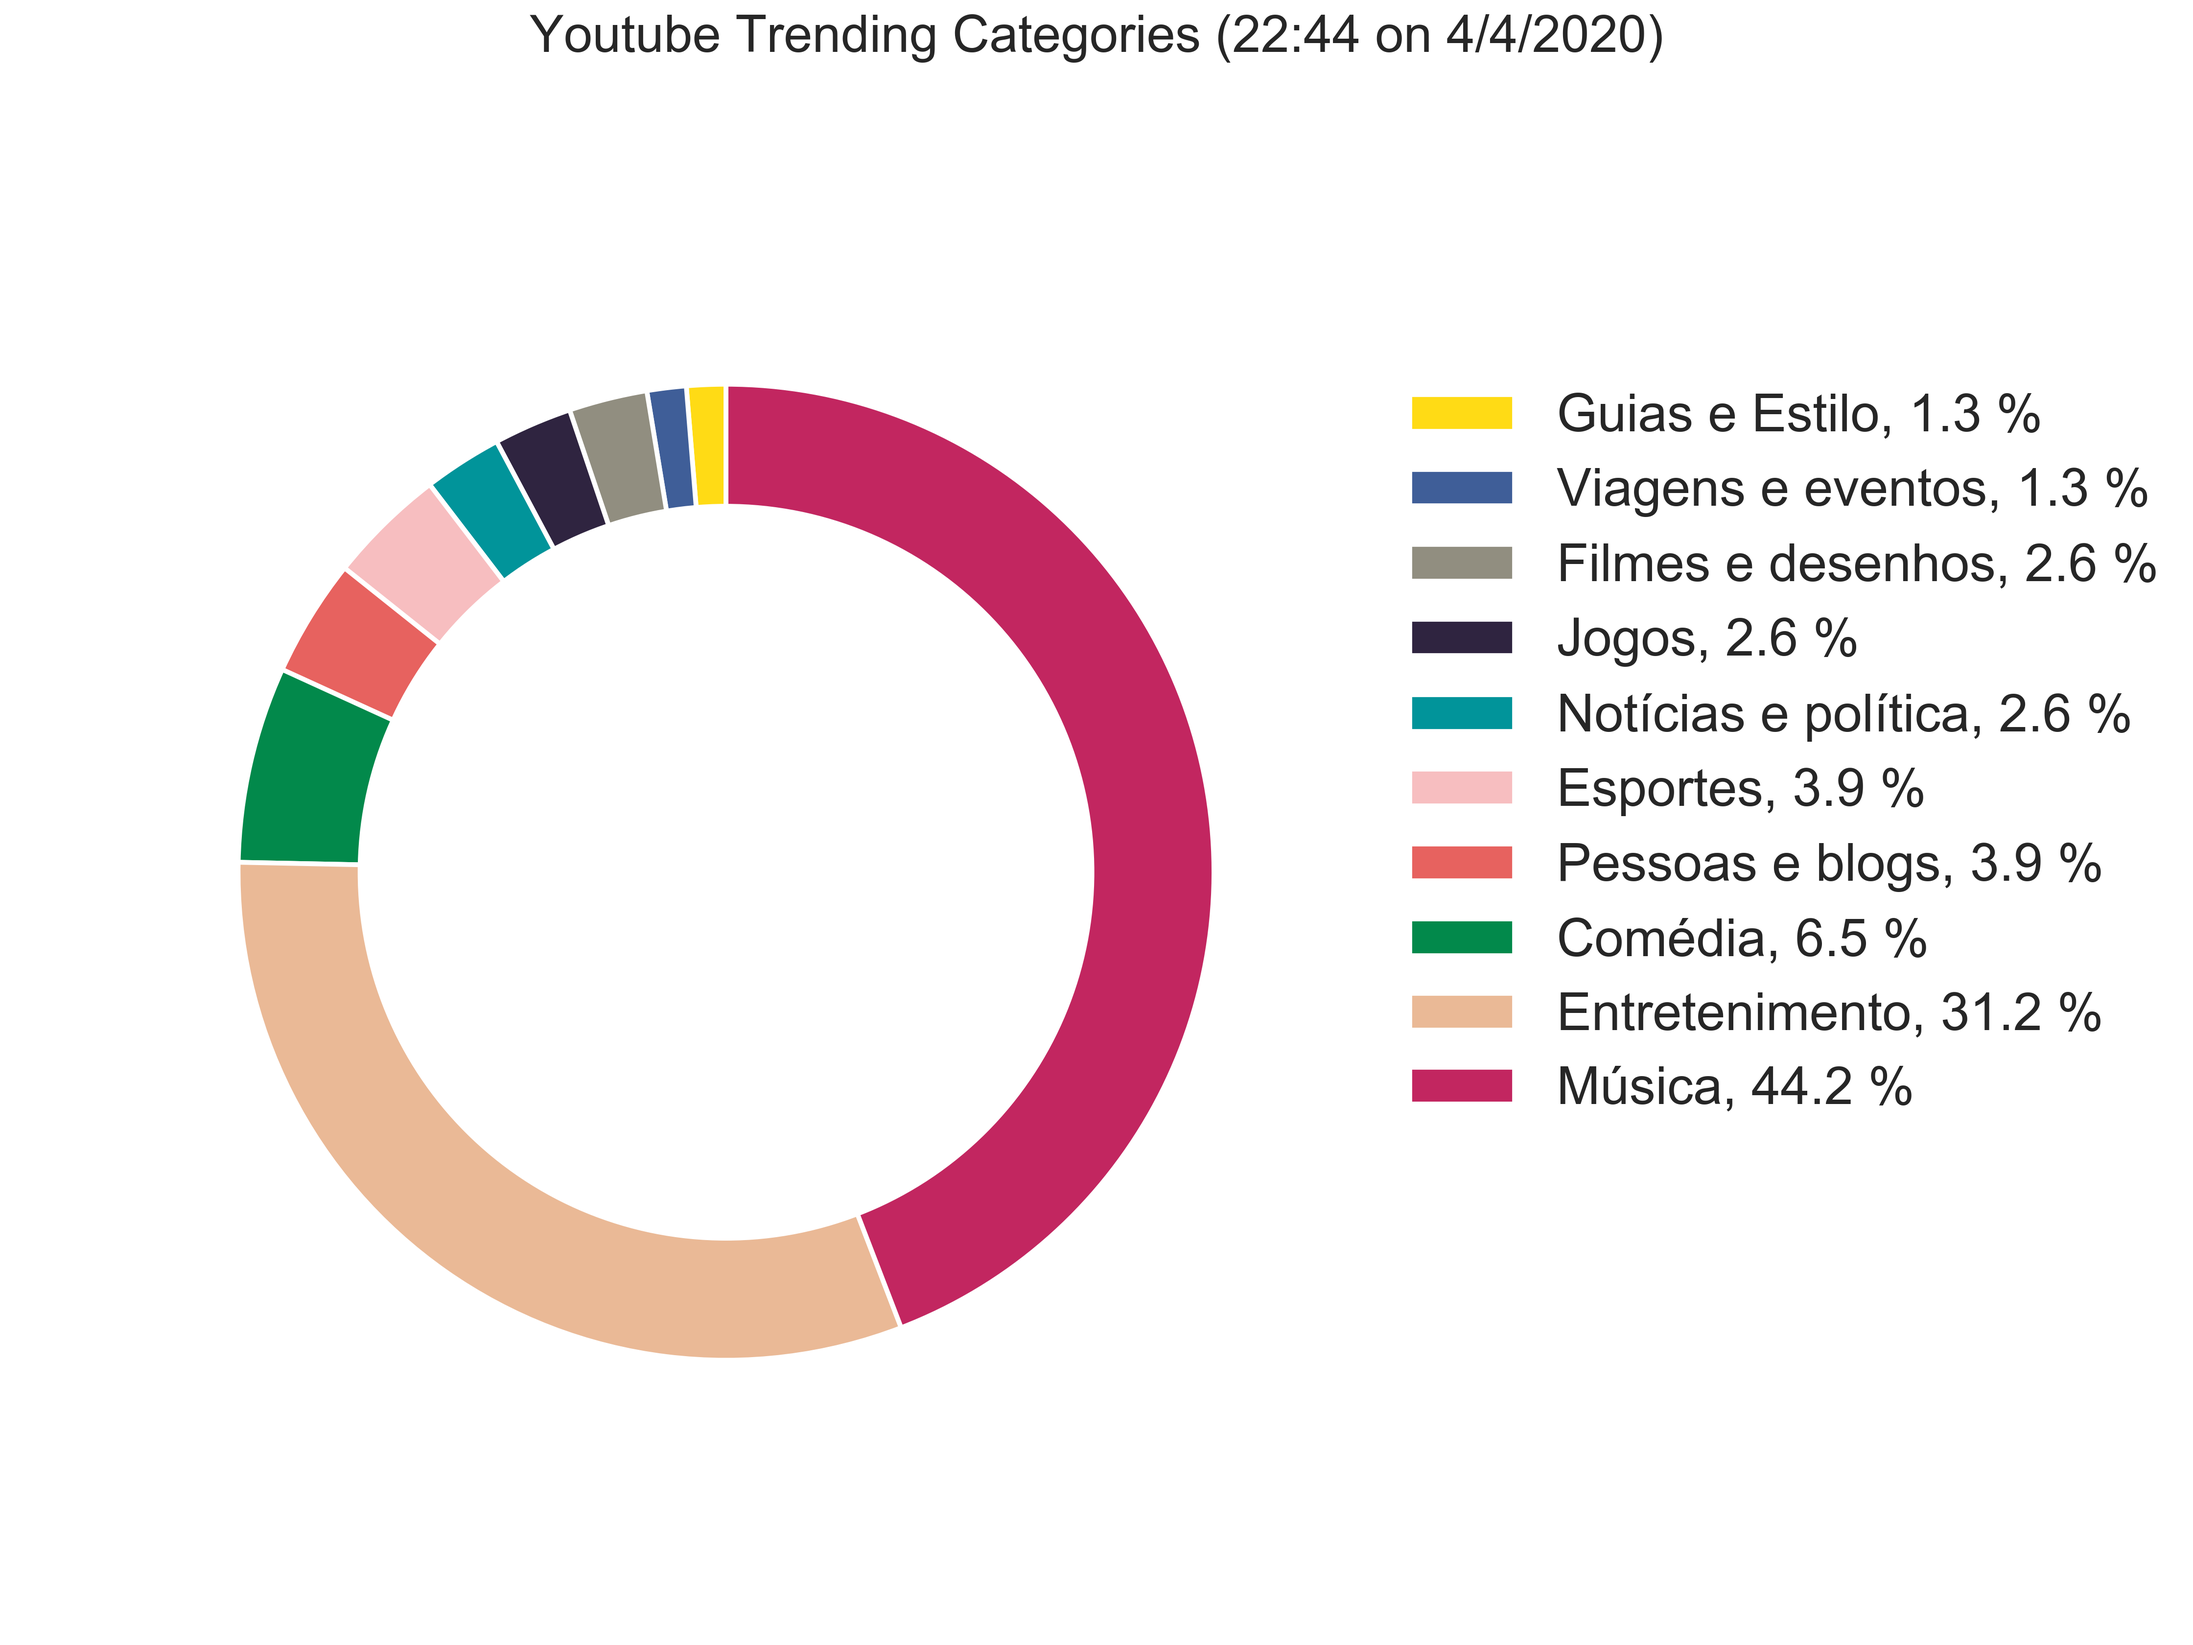
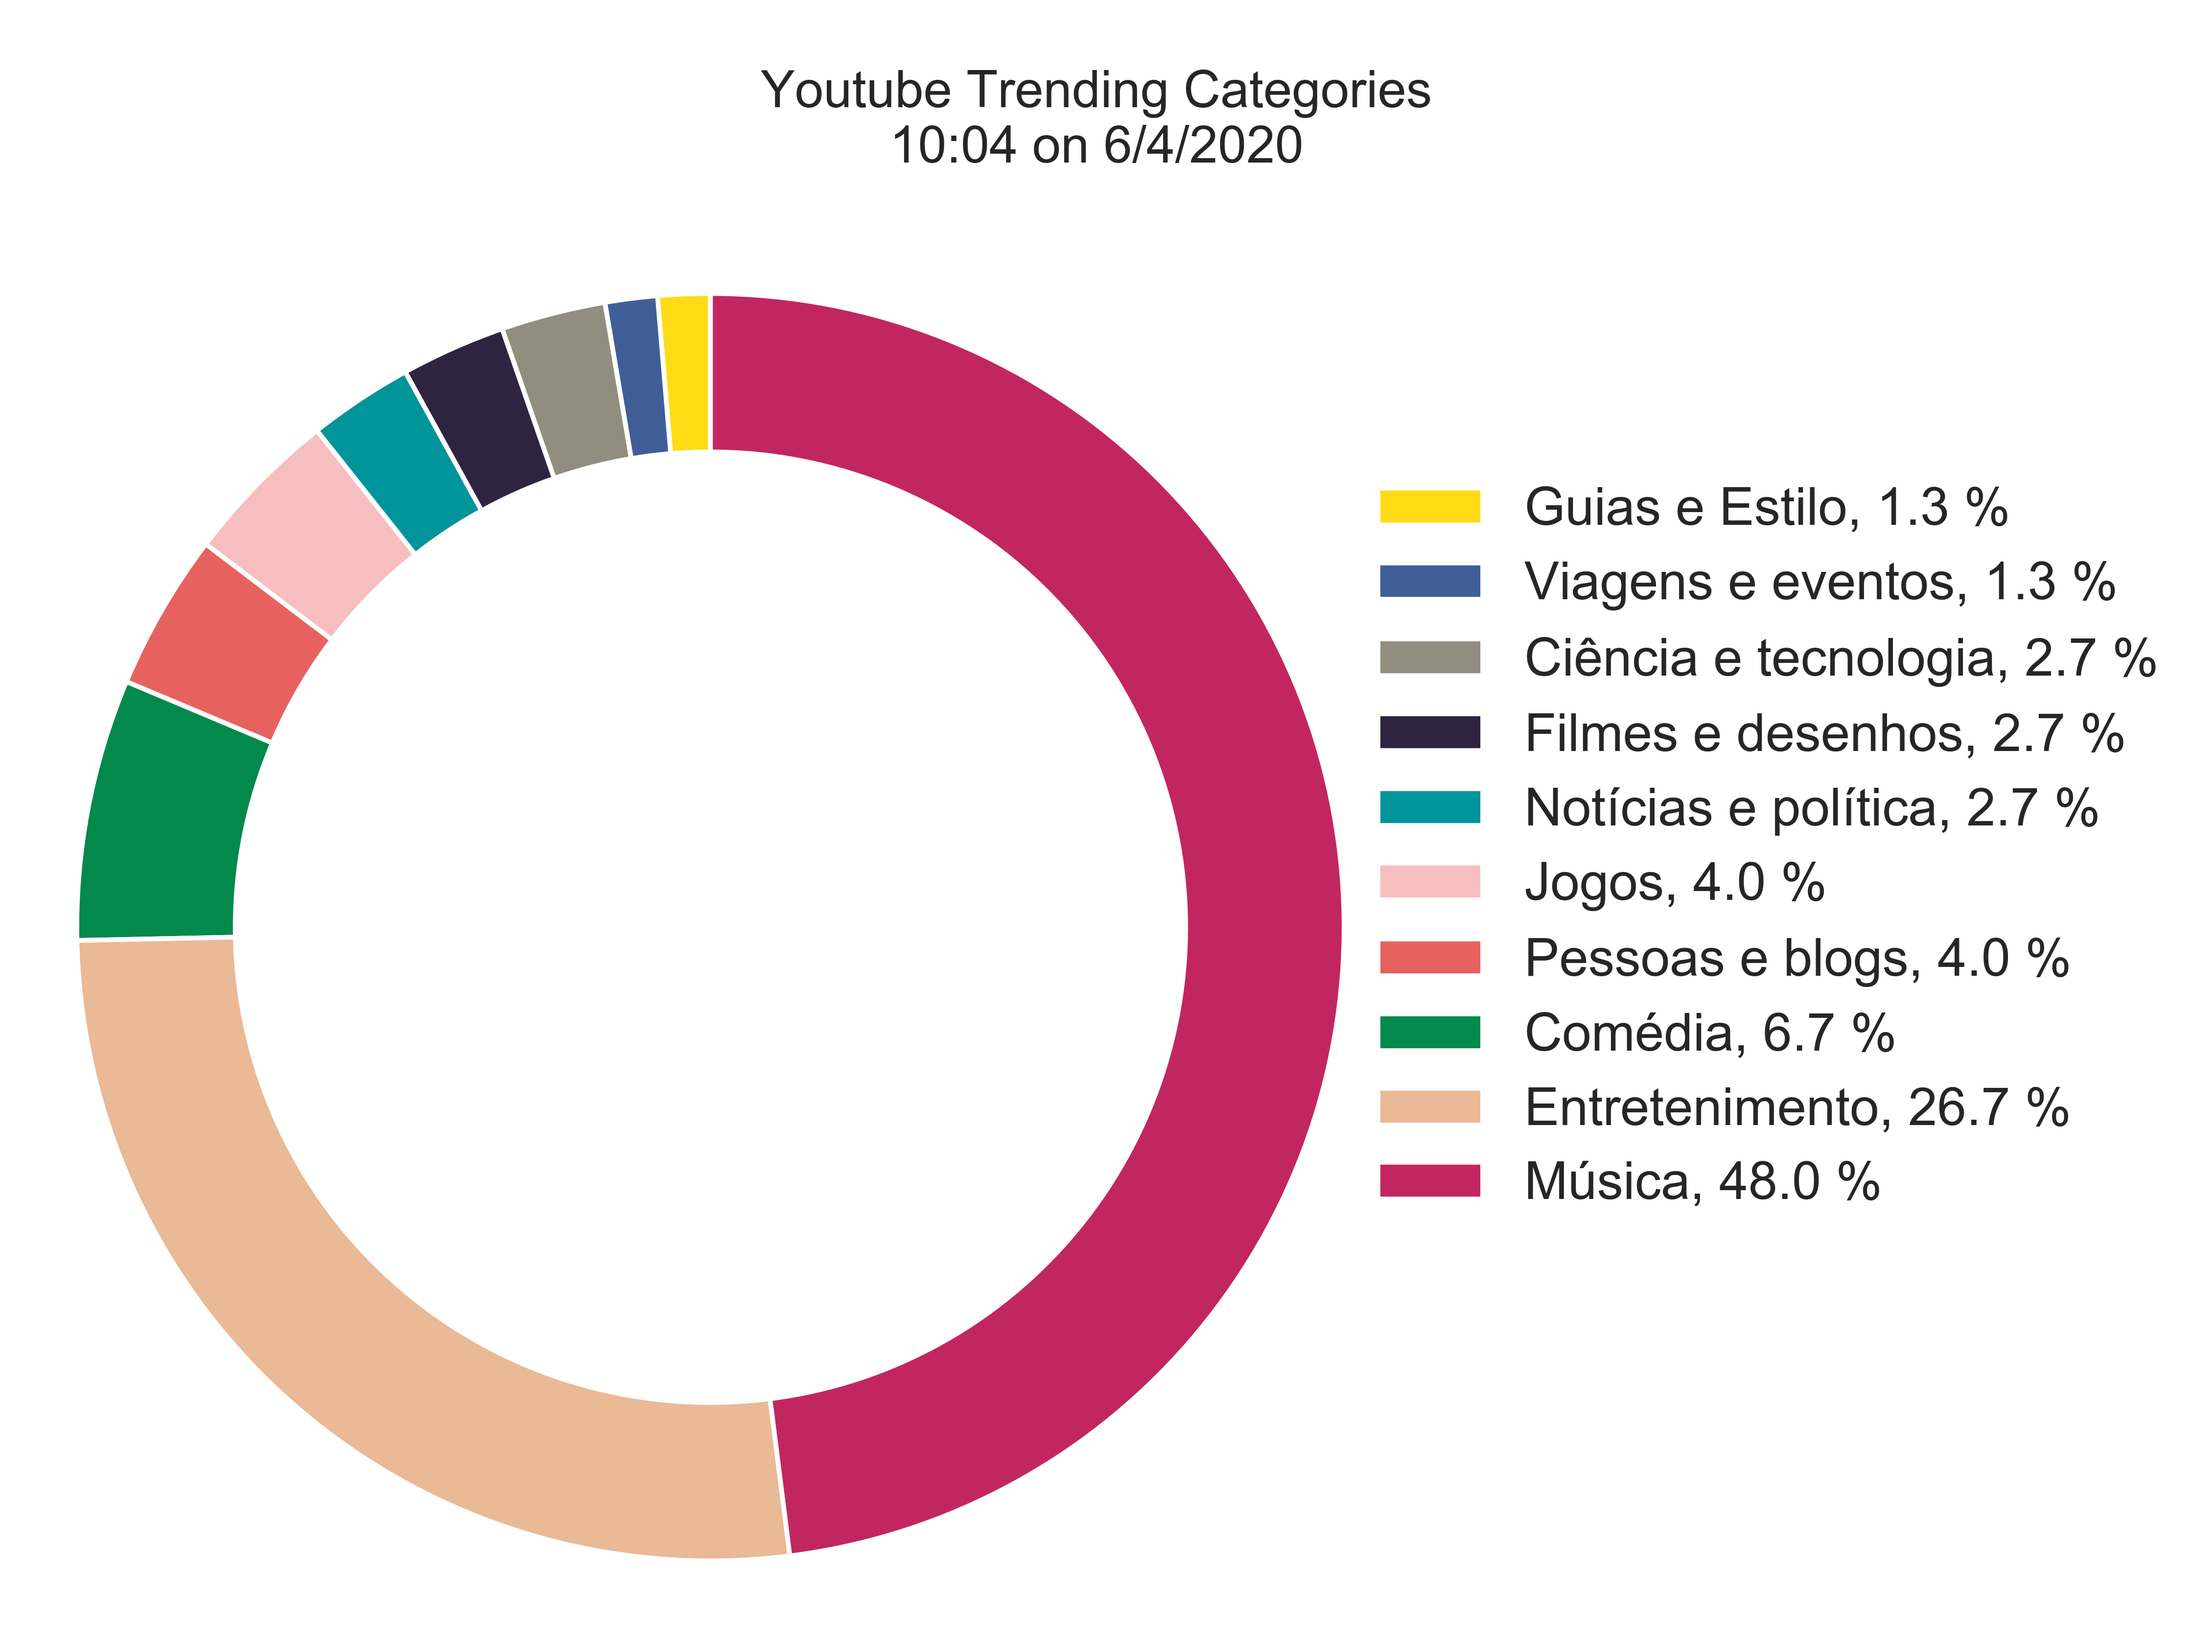
chart title adjust

Changed region(s): [[0.0312, 0.1562, 0.9688, 0.9688], [0.25, 0.0, 0.75, 0.0938]]

diff --git a/scraper.py b/scraper.py
@@ -99,7 +99,7 @@ centre_circle = plt.Circle((0,0),0.75,fc='white')
 fig = plt.gcf()
 fig.gca().add_artist(centre_circle)
 
-plt.suptitle(f'Youtube Trending Categories ({hour}:{minute} on {day}/{month}/{year})')
+plt.suptitle(f'\nYoutube Trending Categories\n{hour}:{minute} on {day}/{month}/{year}')
 toc = perf_counter()
 
 totalsecs = toc - tic
